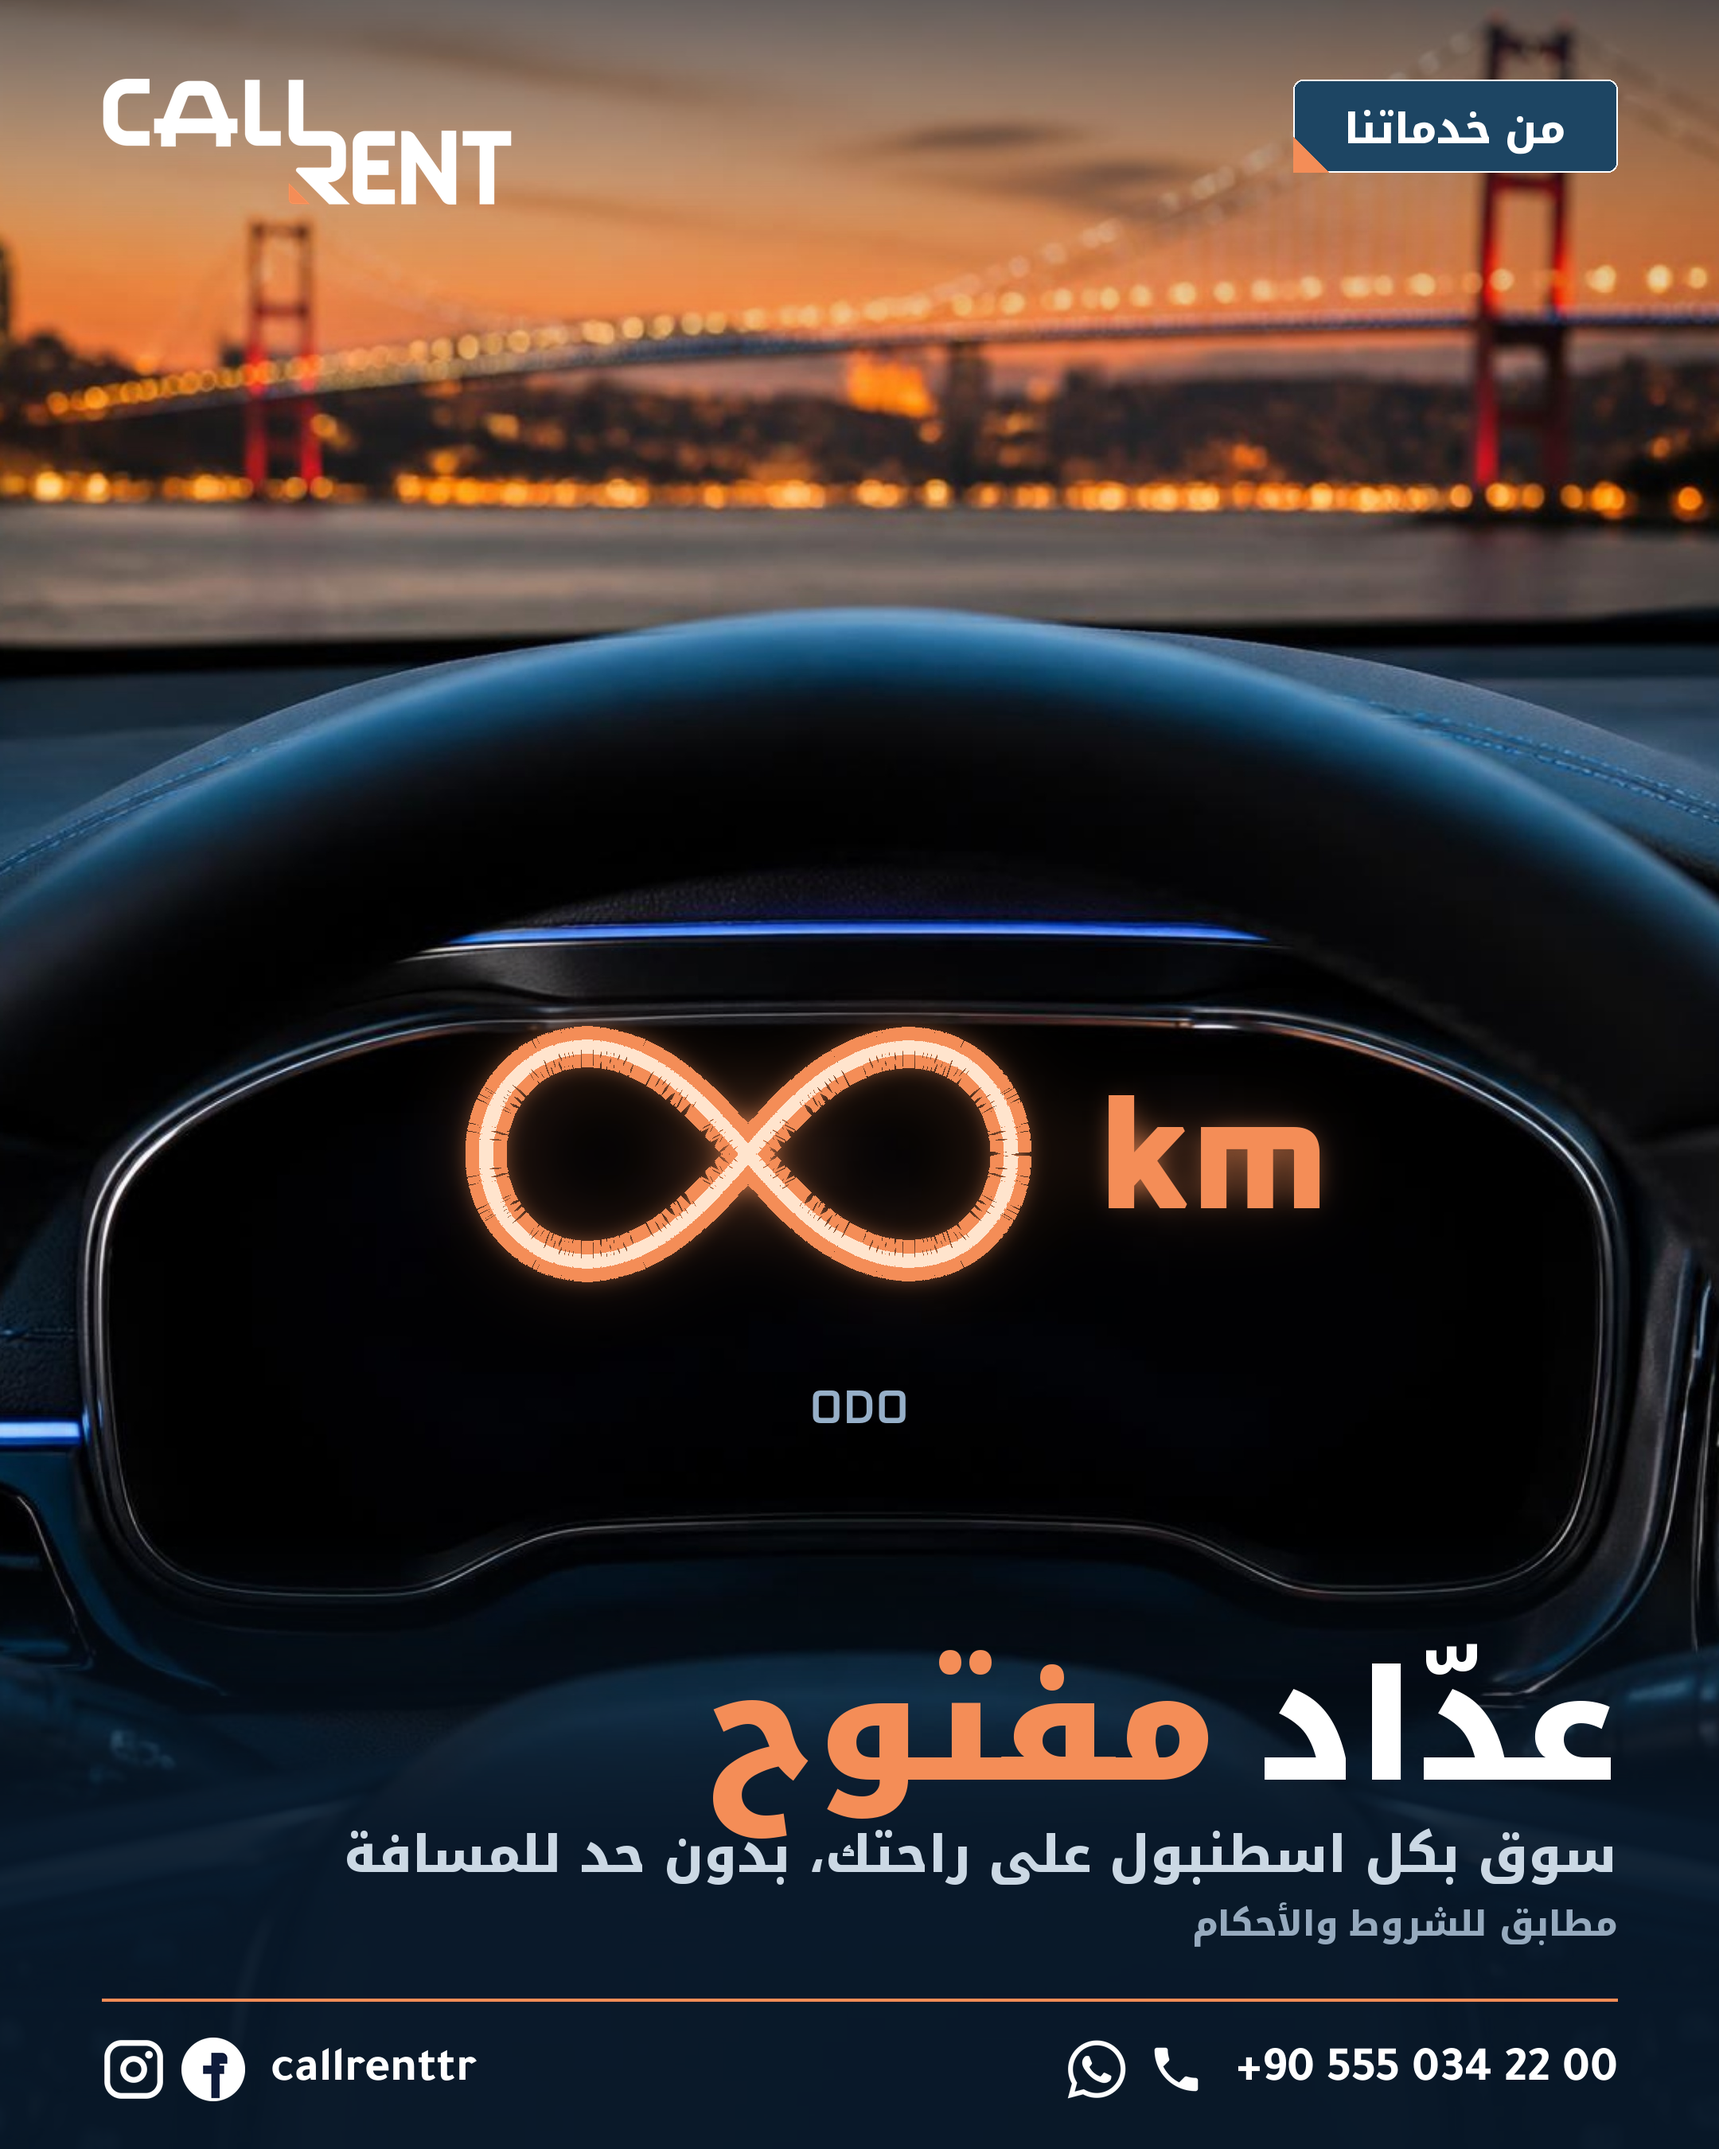
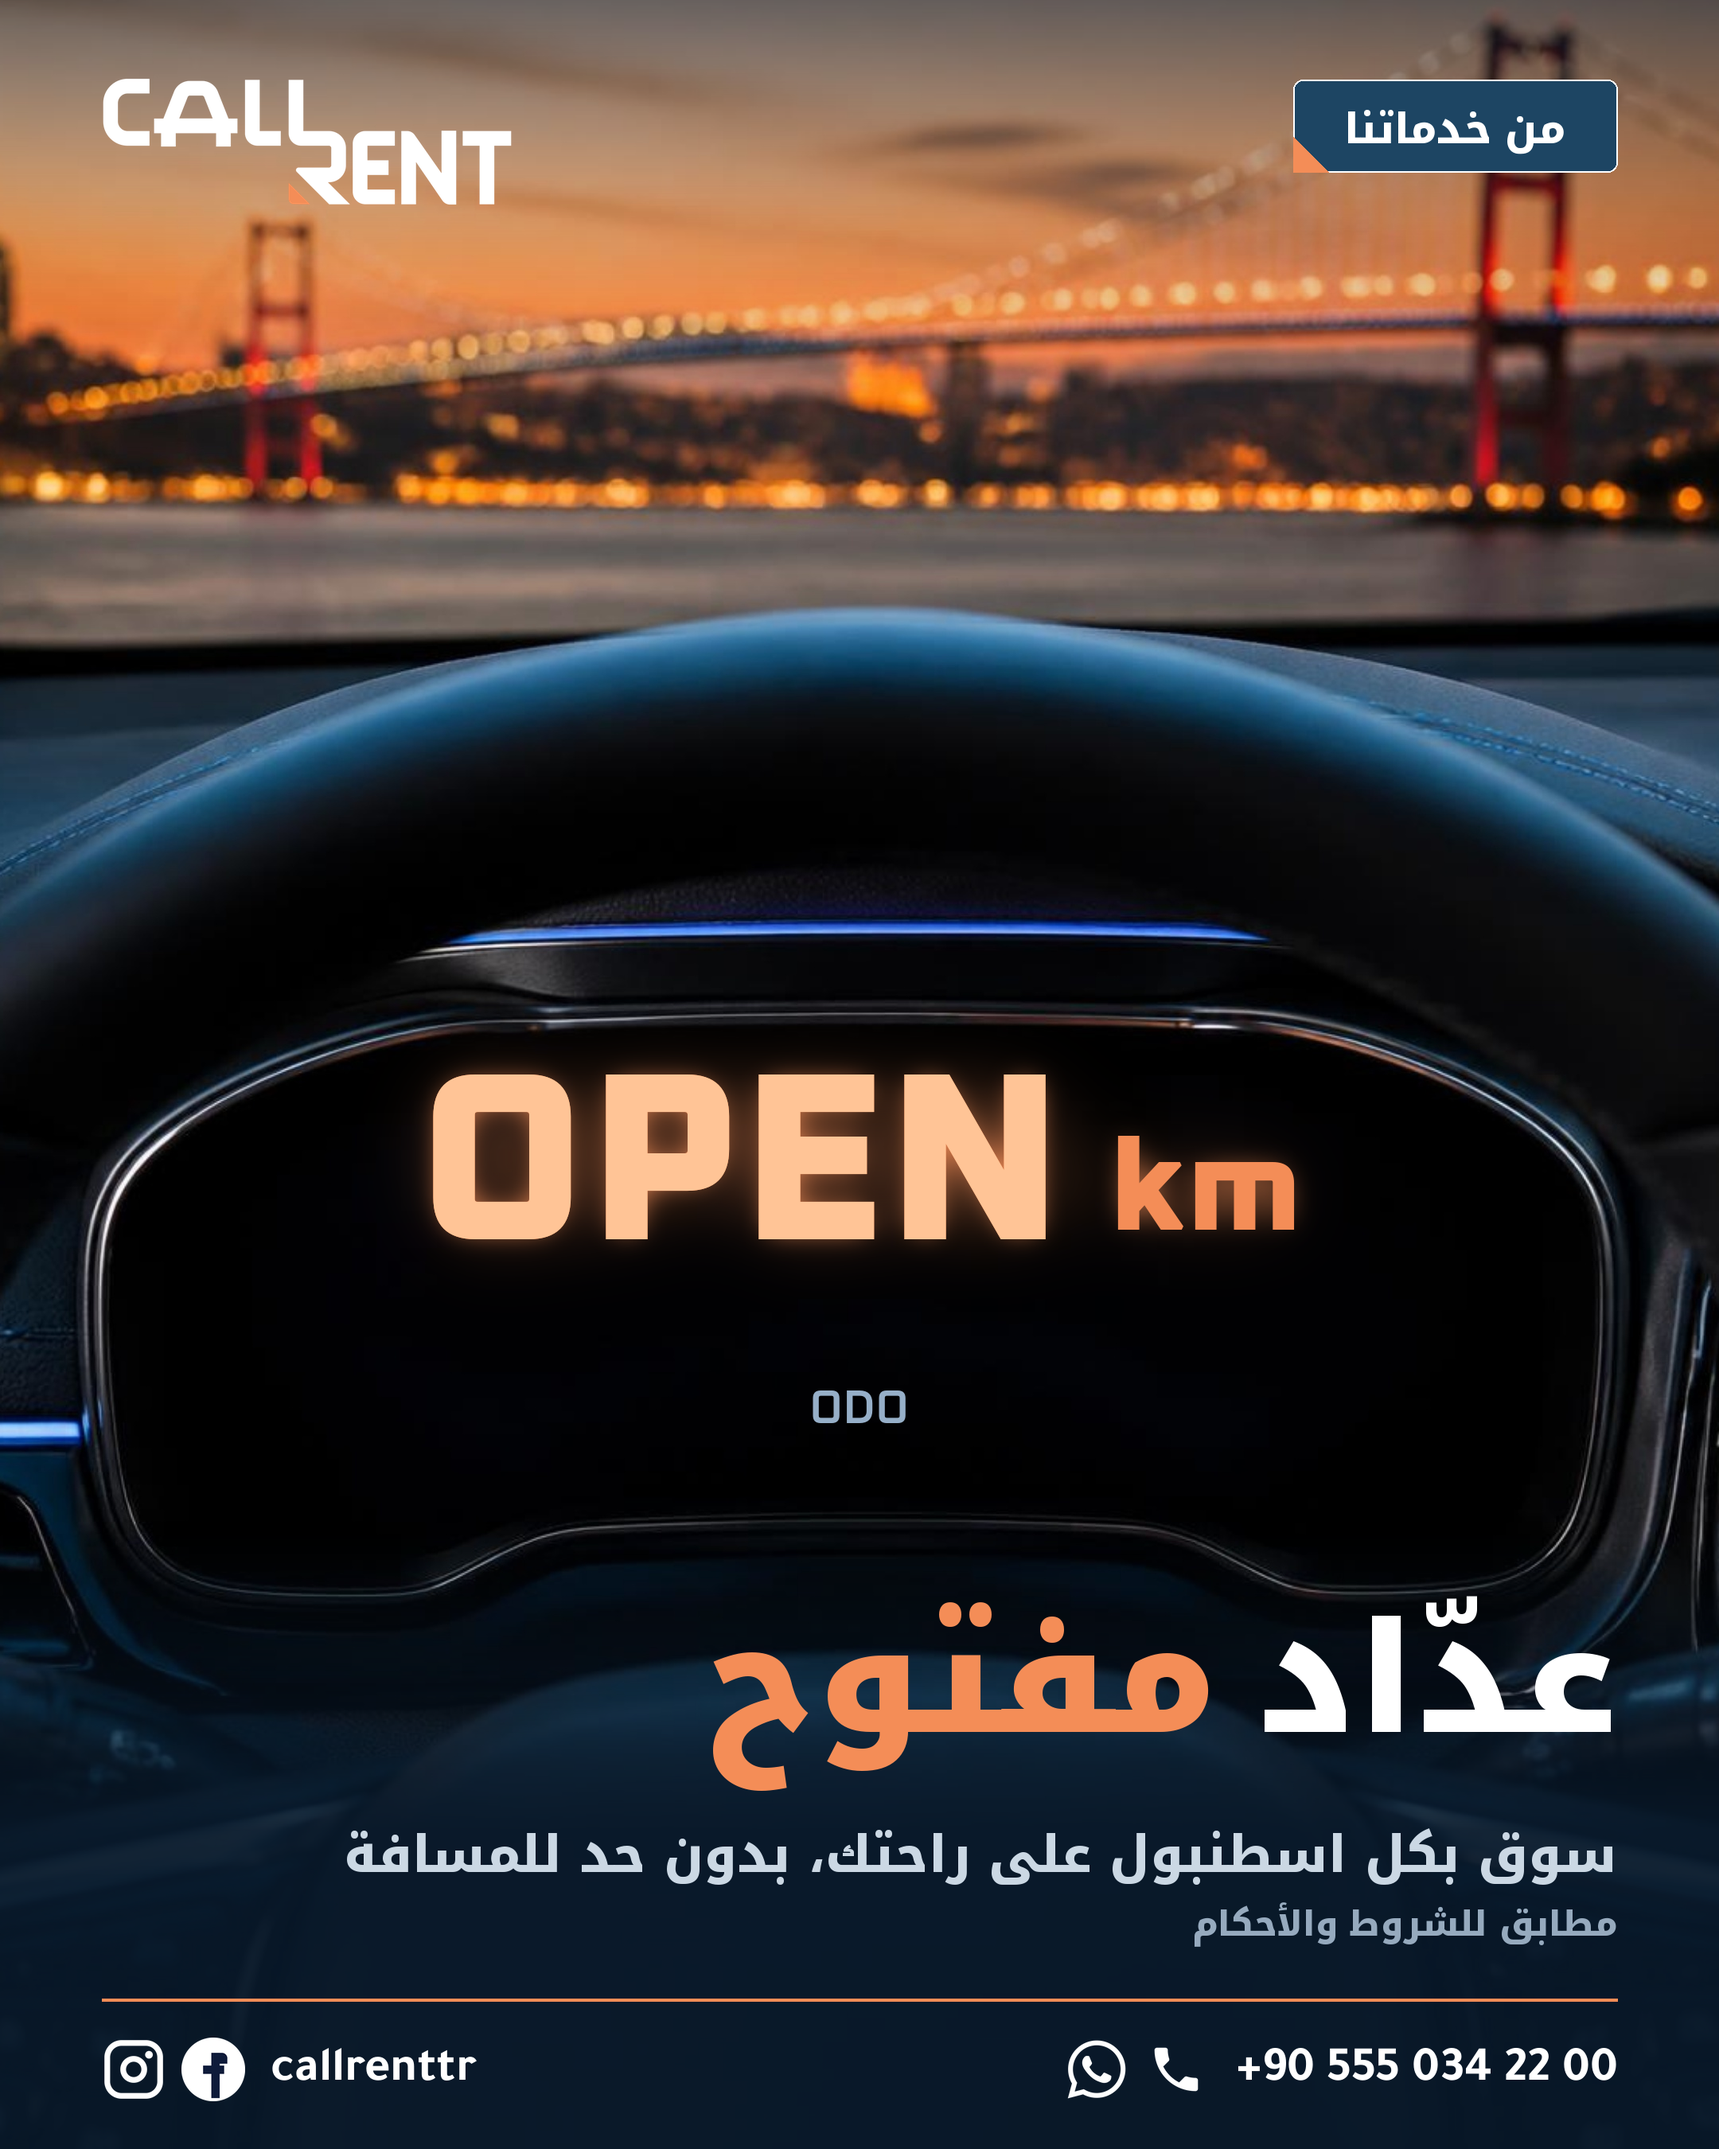
Open-km posts: OPEN instead of ∞, more air under the headline
Claude-Session: https://claude.ai/code/session_01JWxxZZBXcuDznNNTjM86b7

Changed region(s): [[0.2481, 0.4667, 0.7755, 0.6222], [0.4032, 0.7467, 0.7134, 0.8711], [0.7444, 0.7467, 0.9306, 0.84]]

diff --git a/marketing/posts/okm_posts.py b/marketing/posts/okm_posts.py
@@ -1,11 +1,11 @@
 """CALL & RENT «عدّاد مفتوح» (unlimited km): two separate service posts, rendered at 2160x2700.
 
 usage: python3 okm_posts.py <brand-kit dir> <tiggo cutout png> <out dir>
-  1) okm-sign:     Istanbul highway, overhead sign reading ∞ km, our Tiggo 8 underneath
-  2) okm-odometer: cockpit view, the instrument display reads ∞ km
-Backgrounds: Canva (okm-sign-scene.jpg, okm-odo-scene.jpg). The ∞ is drawn as a curve, not a glyph.
+  1) okm-sign:     Istanbul highway, overhead sign reading OPEN km, our Tiggo 8 underneath
+  2) okm-odometer: cockpit view, the instrument display reads OPEN km
+Backgrounds: Canva (okm-sign-scene.jpg, okm-odo-scene.jpg).
 """
-import sys, os, math
+import sys, os
 sys.path.insert(0, sys.argv[1])
 from PIL import Image, ImageDraw, ImageFilter
 import numpy as np
@@ -19,15 +19,6 @@ DEEP = (8, 24, 41)
 
 
 def S(v): return round(v*K)
-
-
-def infinity(d, cx, cy, w, width, fill):
-    """Lemniscate of Bernoulli, stroked as one smooth polyline."""
-    a = w/2/1.0; pts = []
-    for i in range(721):
-        t = 2*math.pi*i/720; den = 1 + math.sin(t)**2
-        pts.append((cx + a*math.cos(t)/den, cy + a*math.sin(t)*math.cos(t)/den*1.15))
-    d.line(pts, fill=fill, width=width, joint='curve')
 
 
 def shade(cv, bands):
@@ -71,9 +62,9 @@ def headline(cv, y, sub=True):
     d.text((R_, y), t1, font=f1, fill=WHITE+(255,), anchor='rs', direction='rtl', language='ar')
     d.text((R_ - w_ar(t1, f1) - S(26), y), t2, font=f1, fill=ORANGE+(255,), anchor='rs', direction='rtl', language='ar')
     if sub:
-        d.text((R_, y + S(58)), 'سوق بكل اسطنبول على راحتك، بدون حد للمسافة', font=F(AR_BOLD, S(32)),
+        d.text((R_, y + S(88)), 'سوق بكل اسطنبول على راحتك، بدون حد للمسافة', font=F(AR_BOLD, S(32)),
                fill=SOFT+(255,), anchor='rs', direction='rtl', language='ar')
-        d.text((R_, y + S(98)), 'مطابق للشروط والأحكام', font=F(AR_BOLD, S(22)),
+        d.text((R_, y + S(128)), 'مطابق للشروط والأحكام', font=F(AR_BOLD, S(22)),
                fill=(150, 170, 190, 255), anchor='rs', direction='rtl', language='ar')
 
 
@@ -104,8 +95,10 @@ def sign_post(cut_path, out):
     sign = Image.new('RGBA', (x1-x0, y1-y0), g+(255,)); sd = ImageDraw.Draw(sign)
     sd.rounded_rectangle((14, 14, x1-x0-15, y1-y0-15), radius=22, outline=(236, 240, 236, 255), width=10)
     sh = y1 - y0; cy = sh/2
-    infinity(sd, (x1-x0)/2 - 150, cy, 420, 46, ORANGE+(255,))
-    sd.text(((x1-x0)/2 + 170, cy + 8), 'km', font=F(LT_BOLD, 200), fill=(240, 244, 240, 255), anchor='lm')
+    fo = F(LT_BOLD, 210); fk = F(LT_BOLD, 150); gap = 50                 # OPEN km, centred right of the arrow
+    tw = w_lt('OPEN', fo) + gap + w_lt('km', fk); gx = (x1-x0)/2 + 70 - tw/2
+    sd.text((gx, cy + 8), 'OPEN', font=fo, fill=ORANGE+(255,), anchor='lm')
+    sd.text((gx + w_lt('OPEN', fo) + gap, cy + 26), 'km', font=fk, fill=(240, 244, 240, 255), anchor='lm')
     # arrow (straight ahead) on the left
     ax = 170; sd.polygon([(ax, cy-120), (ax-70, cy-30), (ax-24, cy-30), (ax-24, cy+120), (ax+24, cy+120), (ax+24, cy-30), (ax+70, cy-30)],
                          fill=(240, 244, 240, 255))
@@ -125,7 +118,7 @@ def sign_post(cut_path, out):
     cv.alpha_composite(car, (cx0, cy0))
     shade(cv, [(lambda ys: np.clip(1 - ys/S(260), 0, 1)**1.4*0.55, DEEP), (lambda ys: np.clip((ys - S(960))/S(190), 0, 1)**1.1*0.95, DEEP)])
     chrome(cv)
-    headline(cv, S(1118))
+    headline(cv, S(1088))
     footer(cv, S(1300))
     cv.convert('RGB').save(out, optimize=True); print(out, cv.size)
 
@@ -136,18 +129,20 @@ def odometer_post(out):
     # the display reads ∞ km: orange tube with a bloom, like a live digital readout
     cx, cy = W/2, S(735)
     glow = Image.new('RGBA', (W, H), (0, 0, 0, 0)); gd = ImageDraw.Draw(glow)
-    infinity(gd, cx - S(70), cy - S(10), S(330), S(26), ORANGE+(255,))
-    gd.text((cx + S(150), cy - S(4)), 'km', font=F(LT_BOLD, S(96)), fill=ORANGE+(255,), anchor='lm')
+    fo = F(LT_BOLD, S(150)); fk = F(LT_BOLD, S(80)); gap = S(28)
+    tw = w_lt('OPEN', fo) + gap + w_lt('km', fk); gx = cx - tw/2
+    gd.text((gx, cy), 'OPEN', font=fo, fill=ORANGE+(255,), anchor='lm')
+    gd.text((gx + w_lt('OPEN', fo) + gap, cy + S(14)), 'km', font=fk, fill=ORANGE+(255,), anchor='lm')
     for r in (S(30), S(10)):                                # two-step bloom under the tube
         cv.alpha_composite(glow.filter(ImageFilter.GaussianBlur(r)))
     cv.alpha_composite(glow)
     core = Image.new('RGBA', (W, H), (0, 0, 0, 0)); cd = ImageDraw.Draw(core)
-    infinity(cd, cx - S(70), cy - S(10), S(330), S(9), (255, 228, 205, 255))
+    cd.text((gx, cy), 'OPEN', font=fo, fill=(255, 196, 150, 255), anchor='lm')        # brighter core over the bloom
     cv.alpha_composite(core)
     d = ImageDraw.Draw(cv)
     d.text((cx, cy + S(150)), 'ODO', font=F(LT_TEXT, S(30)), fill=(150, 175, 200, 255), anchor='mm')
     chrome(cv)
-    headline(cv, S(1118))
+    headline(cv, S(1088))
     footer(cv, S(1300))
     cv.convert('RGB').save(out, optimize=True); print(out, cv.size)
 
